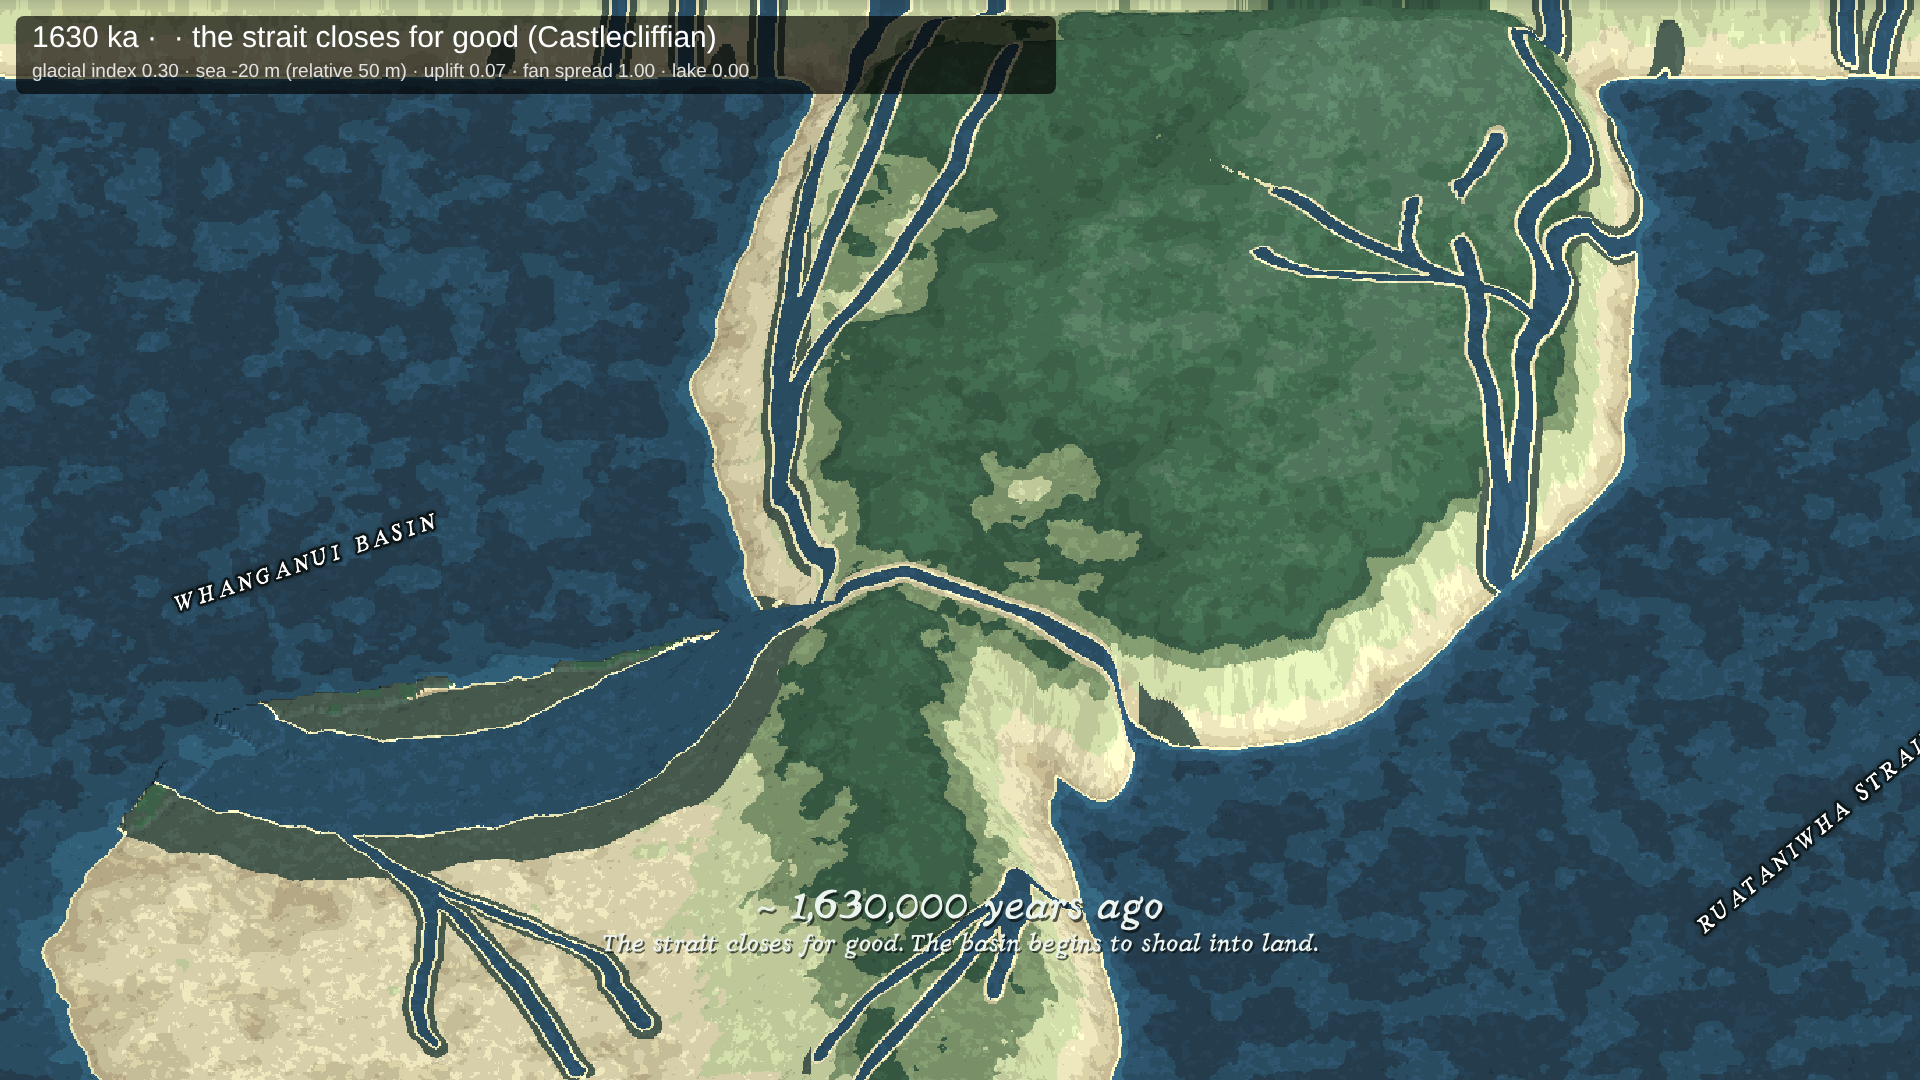
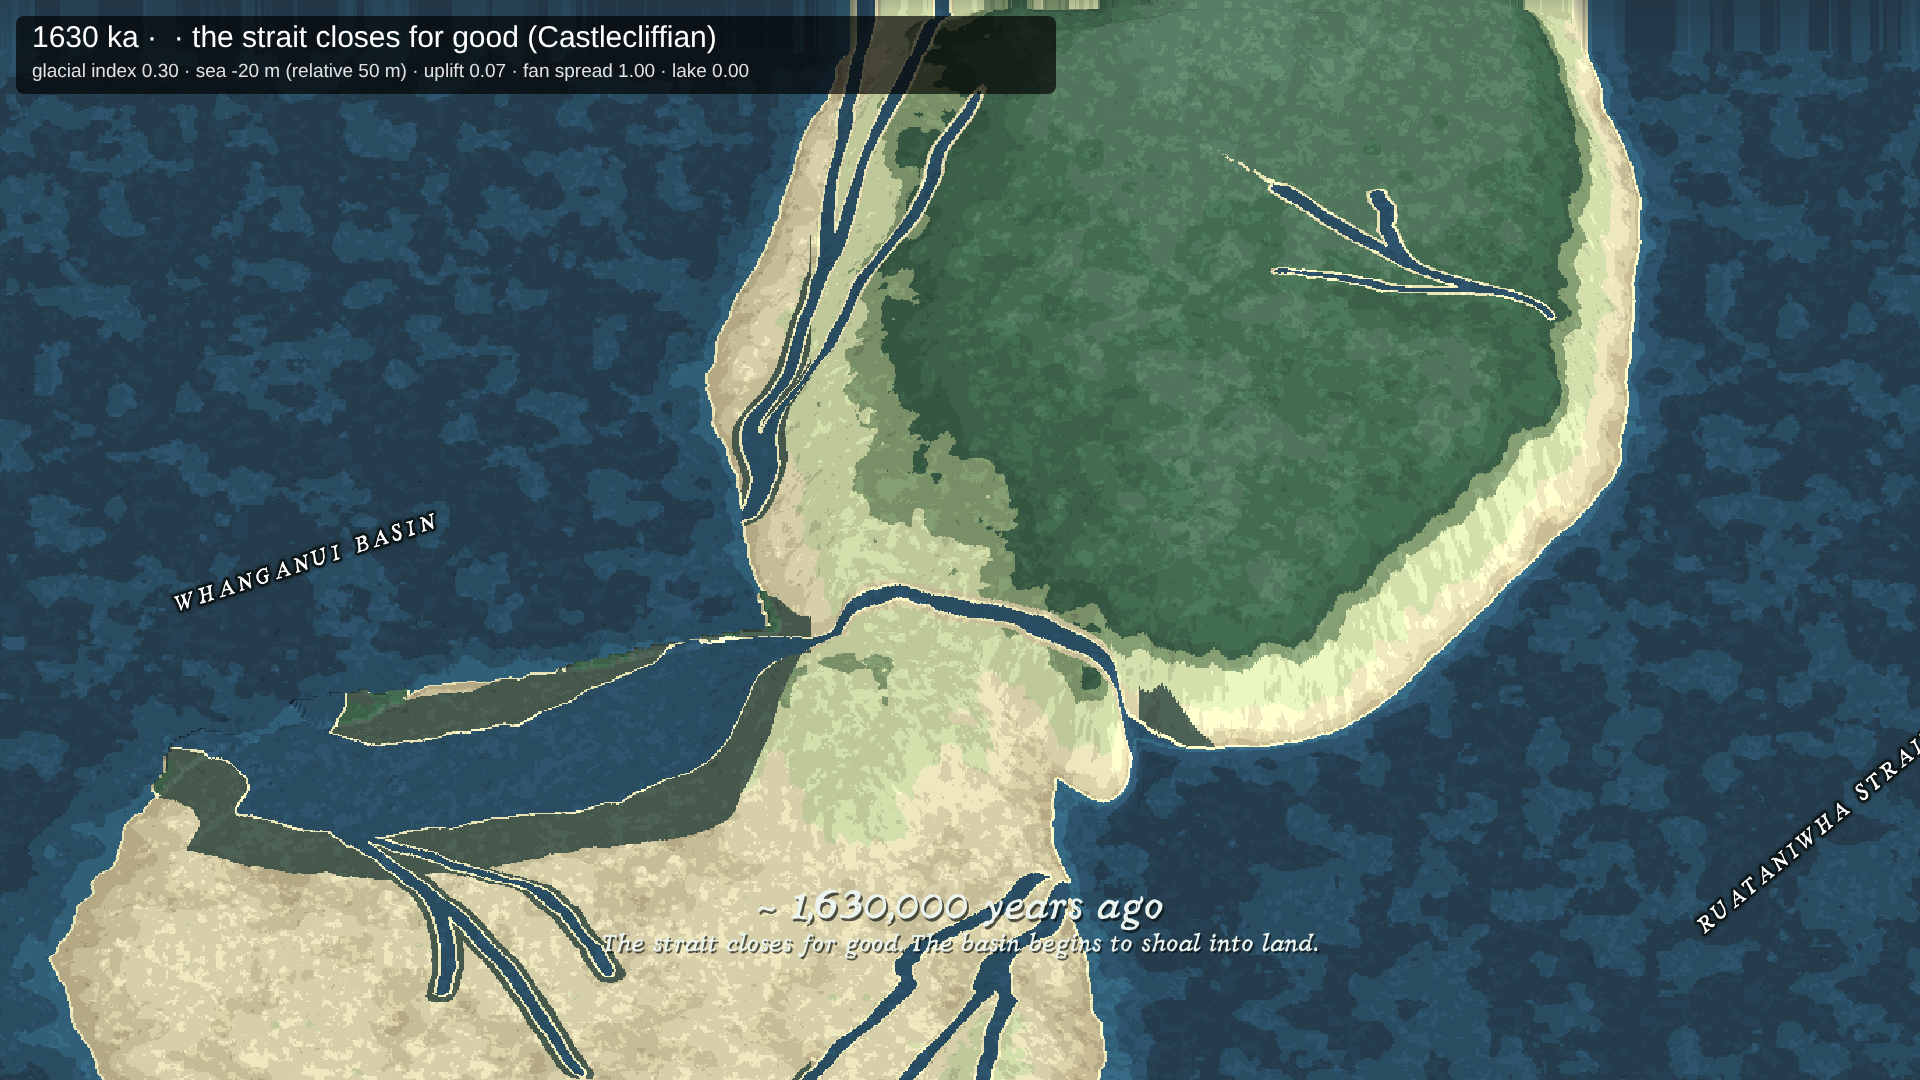
Attract sequence: no striped towers on the finger, no false coast along the far edge
Two artefacts on the pre-window land. (1) The relief bake painted striped
towers at the Ruahine's southern tip near the gorge (2.4–2.0 Ma): a class
boundary in the thin-finger mass — cells owned by the gorge saddle used a
different thinning from range cells — left one-cell steps at the polygon
edge, capped at 0.12/cell by the de-cliff pass. The finger is now built from
continuous fields only: the cached range-only mass (rMaskR) thinned to its
crest lines, the river bridge inside the gorge window, and the full footprint
fading in as it broadens; the max of the three. (2) _nsEdgeFalloff eased the
far edge two-way toward plains, lifting the drowned basin floor into a strip
of false land with a ruler-straight coast along the top. It now raises LAND
only (fading in over 0.05 above the waterline); sea stays sea; a truncated
range still eases down, so the headroom smear stays fixed.

Harness: no one-cell step > 0.1 inside the core off the strait at four
pre-window dates; the far edge over the drowned basin stays sea; the edge
assertions read the land-only rule (land up, sea unchanged, range down).

Claude-Session: https://claude.ai/code/session_01WkpDZJWCGYVheE62ZLNfrb

diff --git a/TeManawa_terrain.js b/TeManawa_terrain.js
@@ -2169,7 +2169,15 @@ class TerrainGenerator {
     // to raise here: no river reaches the north edge. This is what fills the far edge cleanly.
     if (tm > 0 && v < tm) {
       const f0 = 1 - v / tm, f = f0 * f0 * (3 - 2 * f0);
-      out += (0.22 - out) * f;
+      if (out >= 0.22) out += (0.22 - out) * f;              // a truncated range eases DOWN (no smear)
+      else {
+        // A low far row rises to meet the crop — but only LAND. Sea paints flat whatever its depth, so
+        // raising it filled nothing; it turned the drowned basin (the attract sequence, 4 → 1.65 Ma) into
+        // a strip of false land with a ruler-straight coast along the top. The raise fades in over the
+        // first 0.05 above the waterline, so the shore itself keeps its slope.
+        const w = (out - 0.10) / 0.05, ww = w <= 0 ? 0 : w >= 1 ? 1 : w * w * (3 - 2 * w);
+        out += (0.22 - out) * f * ww;
+      }
     }
     // NEAR (bottom/front) edge: ease DOWN only — never raise the carved river channel / coast here.
     if (bm > 0) {
@@ -2367,7 +2375,8 @@ class TerrainGenerator {
     const rMask = new Float32Array(n), rH = new Float32Array(n), ridge = new Float32Array(n),
           detail = new Float32Array(n), crest = new Float32Array(n),
           rSp = new Float32Array(n),   // spine closeness, 1 on a range's crest line → 0 at its flank (the saddle: 1)
-          rSad = new Uint8Array(n);    // 1 where the cell's mass is the gorge SADDLE's (between the polygons), not a range's
+          rSad = new Uint8Array(n),    // 1 where the cell's mass is the gorge SADDLE's (between the polygons), not a range's
+          rMaskR = new Float32Array(n); // the RANGE-only mass (the max over the polygons, before the saddle override)
     const rf = this._rangeFbmOut || (this._rangeFbmOut = { ridge: 0, detail: 0, crest: 0 });
     const fbmD = (typeof LOOK !== 'undefined' && LOOK.rangeFbmDetail != null) ? LOOK.rangeFbmDetail : 0.10;
     const fbmC = (typeof LOOK !== 'undefined' && LOOK.rangeCrestTex != null) ? LOOK.rangeCrestTex : 0.07;
@@ -2391,11 +2400,14 @@ class TerrainGenerator {
         const u = col * invc, wx = col * scale;
         let bm = 0, bh = 0, br = null;
         for (let i = 0; i < R.length; i++) { const m = this._rangeMass(R[i], u, v); if (m > bm) { bm = m; bh = R[i].height; br = R[i]; } }
+        rMaskR[idx] = bm;
         const mf = this._mainField(u, v);
         if (mf && gSad > 0) { const sm = TerrainGenerator._gorgeSaddle(u, Math.abs(mf.s)); if (sm > bm) { bm = sm; bh = gSadH; br = null; } }   // Te Āpiti: the ranges meet at the river
         rMask[idx] = bm;
         rH[idx] = (bm > 0 && br) ? bh * TerrainGenerator._spineHeight(br, u, v, spine) : bh;
         rSp[idx] = (bm > 0 && br) ? TerrainGenerator._spineHeight(br, u, v, 1) : (bm > 0 ? 1 : 0);
+        // The saddle cells' spine closeness is their nearest RANGE's (continuous across the class boundary).
+        if (bm > 0 && !br) { let bR = 0, brR = null; for (let i = 0; i < R.length; i++) { const m = this._rangeMass(R[i], u, v); if (m > bR) { bR = m; brR = R[i]; } } rSp[idx] = brR ? TerrainGenerator._spineHeight(brR, u, v, 1) : 0; }
         rSad[idx] = (bm > 0 && !br) ? 1 : 0;
         if (bm > 0) { this._rangeFbm(wx, wy, rf); ridge[idx] = rf.ridge; detail[idx] = rf.detail * fbmD; crest[idx] = rf.crest * fbmC; }
         if (mf) { wMDist[idx] = mf.d; wMBaseW[idx] = mf.w; wMPos[idx] = mf.p; wMDepth[idx] = mf.depth; wMS[idx] = mf.s; wME[idx] = mf.e; }
@@ -2406,7 +2418,7 @@ class TerrainGenerator {
         idx++;
       }
     }
-    this._geoCache = { rMask, rH, ridge, detail, crest, rSp, rSad, wMDist, wMBaseW, wMPos, wMDepth, wMS, wME, tJ, tS, tS0: tS.slice(), tP, tE,
+    this._geoCache = { rMask, rH, ridge, detail, crest, rSp, rSad, rMaskR, wMDist, wMBaseW, wMPos, wMDepth, wMS, wME, tJ, tS, tS0: tS.slice(), tP, tE,
                        tJ2, tS2, tS02: tS2.slice(), tP2, tE2 };
     this._meanderKey = null;   // a fresh cache holds the un-meandered lines: re-apply on the next combine
   }
@@ -3298,7 +3310,7 @@ class TerrainGenerator {
     const pAxisLowE = (LKp.palaeoAxisLowE != null) ? LKp.palaeoAxisLowE : 0.22;
     const pAxisFloorE = (LKp.palaeoAxisFloorE != null) ? LKp.palaeoAxisFloorE : 0.15;
     const pNarrow = ((LKp.palaeoFingerNarrow != null) ? LKp.palaeoFingerNarrow : 0.8) * (PL.narrow || 0);   // the dated thinning of the finger
-    const rSpArr = c.rSp, rSadArr = c.rSad;
+    const rSpArr = c.rSp, rMaskRArr = c.rMaskR;
     const pBridgeW = (LKp.palaeoBridgeW > 0) ? LKp.palaeoBridgeW : 0.06;   // the early land bridge across the saddle: half-width, map-width units (wMDist's)
     const pGorgeU = (LKp.straitGorgeU != null) ? LKp.straitGorgeU : 0.50;
     const pShoal = ((LKp.palaeoShoal != null) ? LKp.palaeoShoal : 0.85) * PL.axis;
@@ -3488,24 +3500,20 @@ class TerrainGenerator {
             // bridge across the saddle (T&B Fig. 4A); it broadens to the whole footprint as the
             // uplift starts (GEO_EPOCHS.palaeoFingerNarrow).
             let mass = rMask[i];
-            if (pNarrow > 0 && rSpArr) {
-              // The thinned range mass: a strip along each crest line. The saddle's own mass (between
-              // the polygons) counts as flank here — its crest profile falls off within a few cells of
-              // the river and would stand as a plateau with a sheer face.
-              const sp = (rSadArr && rSadArr[i]) ? 0 : rSpArr[i];
-              mass = mass * (1 - pNarrow * (1 - sp));
-              // The early land bridge across the gap: a WIDE isthmus along the main stem (pBridgeW of the
-              // map width either side, smoothstepped, inside the gorge window), fading as the finger broadens.
-              // Computed for EVERY cell near the gap and maxed with the range mass, so the mass is
-              // continuous across the saddle/range class boundary (a branch on the class left a 0.3
-              // step between neighbouring cells, which the relief bake painted as a striped wall).
-              const nw = PL.narrow || 0;
-              if (nw > 0 && wMDistArr) {
+            const nw = PL.narrow || 0;
+            if (nw > 0 && rSpArr && rMaskRArr) {
+              // THE THIN FINGER, built from CONTINUOUS fields only (every branch on which range or saddle
+              // "owns" a cell left a one-cell step at the class boundary that the relief bake painted as
+              // a striped wall — twice): the RANGE-only mass thinned to its crest lines, the land bridge
+              // along the main stem across the gap (pBridgeW of the map width either side, smoothstepped,
+              // inside the gorge window), and the whole footprint (ranges + saddle) fading in as the
+              // finger broadens. The max of the three; each is continuous, so the mass is.
+              const thin = rMaskRArr[i] * (1 - pNarrow * (1 - rSpArr[i]));
+              mass = mass * (1 - nw);
+              if (thin > mass) mass = thin;
+              if (wMDistArr) {
                 let bm = 1 - wMDistArr[i] / pBridgeW;
-                if (bm > 0) {
-                  bm = bm * bm * (3 - 2 * bm) * (1 - TerrainGenerator._gorgeOpen(u)) * nw;
-                  if (bm > mass) mass = bm;
-                }
+                if (bm > 0) { bm = bm * bm * (3 - 2 * bm) * (1 - TerrainGenerator._gorgeOpen(u)) * nw; if (bm > mass) mass = bm; }
               }
             }
             let core = (mass - pAxisCore) / (1 - pAxisCore);

diff --git a/tools/bootcheck.js b/tools/bootcheck.js
@@ -1294,6 +1294,22 @@ try{
   // (the gap probe box is wider than the early finger's river bridge across the saddle, so some of it is sea
   //  beside the bridge; "no seaway" is the bridge standing and the box being far less sea than once the strait opens)
   chk(state[4000000].gap<0.7 && state[3000000].gap>state[4000000].gap+0.3, `4 Ma: no seaway across the gorge area — a land bridge stands (${pc(state[4000000].gap)} sea, vs ${pc(state[3000000].gap)} at 3 Ma)`);
+  // no striped walls: inside the finger's core, off the strait, no one-cell step steeper than 0.1 at any
+  // pre-window date (a class boundary in the mass left 0.12/cell steps the relief bake painted as towers);
+  // and the far edge stays SEA where the basin drowned it (the two-way edge ease used to raise a false coast)
+  {
+    const C2=T._geoCache; let steep=0, topLand=0, topN=0;
+    for (const y of [4000000, 3000000, 2400000, 2000000]) {
+      T.morphTo(y,1); const H=T.heightMap;
+      for (let r=1;r<gr-1;r++) for (let col=1;col<gc-1;col++) {
+        const i=r*gc+col;
+        if (C2.rMask[i]>0.5 && C2.rMask[i+1]>0.5 && Math.abs(col/gc-gu)>0.2 && Math.max(Math.abs(H[i]-H[i+1]),Math.abs(H[i]-H[i+gc]))>0.1) steep++;
+        if (r<gr*0.05 && col<gc*0.3) { topN++; if (H[i]>=seaE) topLand++; }
+      }
+    }
+    chk(steep<=4, `no one-cell step > 0.1 inside the finger's core off the strait at 4, 3, 2.4 and 2 Ma (${steep}; a few under the harness's white-noise base — the class-boundary wall was hundreds)`);
+    chk(topLand/topN<0.3, `the far edge over the drowned basin stays sea (${pc(topLand/topN)} land in the top 5% of the north-west)`);
+  }
   // the finger is THINNER early (a strip along the crest lines) than when the uplift starts
   const ruaFlank=(y)=>{ T.morphTo(y,1); return frac(0.66,0.72,0.10,0.30,false); };   // the Ruahine footprint's eastern flank
   { const a=ruaFlank(4000000), b=ruaFlank(1600000); chk(a<=b, `the finger broadens from 4 Ma to 1.6 Ma (flank land ${pc(a)} → ${pc(b)})`); }
@@ -3207,9 +3223,13 @@ try{
   chk(TG._nsEdgeFalloff(0.9, 0.0, 0.1) < 0.3, 'N/S edge falloff eases a high truncated range down to plains at the top edge');
   chk(TG._nsEdgeFalloff(0.9, 0.5, 0.1) === 0.9, 'N/S edge falloff leaves the mid-map untouched');
   chk(TG._nsEdgeFalloff(0.04, 1.0, 0.1) === 0.04, 'the front (bottom) edge never RAISES the carved river channel / coast');
-  // TOP edge is TWO-WAY: a LOW far row is eased UP to plains so it meets the relief crop (fills the
-  // empty-headroom smear gap the zoom-out opened); the front (bottom) stays one-way (down only).
-  chk(TG._nsEdgeFalloff(0.04, 0.0, 0.1) > 0.2, 'the far (top) edge eases a low far row UP to plains (no smear gap)');
+  // TOP edge is TWO-WAY for LAND: a low far row is eased UP to plains so it meets the relief crop (fills
+  // the empty-headroom smear gap the zoom-out opened); SEA stays sea (it paints flat whatever its depth,
+  // and raising it drew a false coast along the top of the attract sequence's drowned basin); a truncated
+  // range still eases DOWN. The front (bottom) stays one-way (down only).
+  chk(TG._nsEdgeFalloff(0.16, 0.0, 0.1) > 0.2, 'the far (top) edge eases a low far LAND row UP to plains (no smear gap)');
+  chk(TG._nsEdgeFalloff(0.04, 0.0, 0.1) === 0.04, 'the far (top) edge leaves a SEA row as sea (no false coast)');
+  chk(TG._nsEdgeFalloff(0.9, 0.0, 0.1) < 0.3, 'the far (top) edge still eases a truncated range DOWN (no smear)');
   chk(TG._nsEdgeFalloff(0.9, 0.0, 0.1, 0) === 0.9, 'a 0 top margin leaves the far edge as raw generated terrain');
   chk(TG._nsEdgeFalloff(0.9, 1.0, 0.1, 0) < 0.3, 'the bottom apron still eases even when the top margin is 0');
   chk(TG._nsEdgeFalloff(0.9, 0.0, 0.1, 0.1) === TG._nsEdgeFalloff(0.9, 0.0, 0.1), '3-arg (symmetric) edge falloff is unchanged (back-compat)');

diff --git a/md/TEMANAWA_PALAEO_ATTRACT.md b/md/TEMANAWA_PALAEO_ATTRACT.md
@@ -185,6 +185,8 @@ exist in the model before 1 Ma (as the spread fans), but no source names them fo
 | 19 | Frame | Kuripapango Strait, Mount Bruce divide, the 2.4 Ma depocentre are off-frame | Not labelled; in this document only |
 | 20 | `RiverNames` hysteresis (`holdLayouts`) | A name a re-layout cannot place stays one more layout before it fades — right on the open screen, wrong across a cover: the modern tributary names carried through the whole 4 Ma hold (seen in the first live run) | `RiverNames.clear()` under both dips (the sequence's first bake and the landing), so each era's first layout starts fresh; never called on the open screen |
 | 21 | The hold timer | A hold counted from the clock's *arrival* at a keyframe; on a slow bake (the harness, a cold kiosk) it was spent still morphing and the dated map was never on screen for its hold | A hold is *pending* until the keyframe's own re-bake lands (`_holdPending` → `_armHold` from `_onBaked`); a skip waits for nothing |
+| 23 | `_nsEdgeFalloff` (the far-edge ease) | It eased the top rows *two-way* toward plains, raising a low far row to meet the relief crop — right on the window's land, but in the sequence it lifted the drowned basin into a strip of false land with a ruler-straight coast along the top | Raises **land** only (fading in over the first 0.05 above the waterline); sea stays sea. The down-easing of truncated ranges, which is what stops the vertical smear, is untouched |
+| 24 | Class boundaries in the thin finger | Each branch on which range or saddle "owns" a cell (`rSad`) left a one-cell step at the polygon edge (the Ruahine's southern tip near the gorge, 2.4–2.0 Ma) — the de-cliff pass caps it at 0.12/cell, and the relief bake paints that as a striped tower | The finger is built from continuous fields only: the range-only mass thinned to its crest lines, the river bridge inside the gorge window, the full footprint fading in as it broadens; the max of the three. Harness: no one-cell step > 0.1 inside the core off the strait at any pre-window date |
 | 22 | The gorge saddle (`LOOK.gorgeSaddle`) | A crest-weighted "finger" (range mass × spine closeness) drowned the saddle between the two ranges at every pre-window date, cutting the finger where Trewick & Bland say there was no seaway at 4 Ma | The finger is the range *footprints* (mass ≥ `LOOK.palaeoAxisCore`, a wide shelving band — the polygons and the saddle), with the spread margin shelving under; the harness asserts the gap is land at 4, 2.75 and 1.6 Ma |
 
 ---
